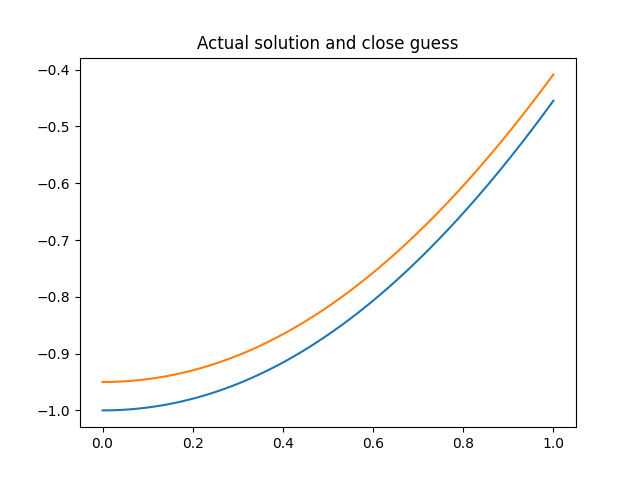
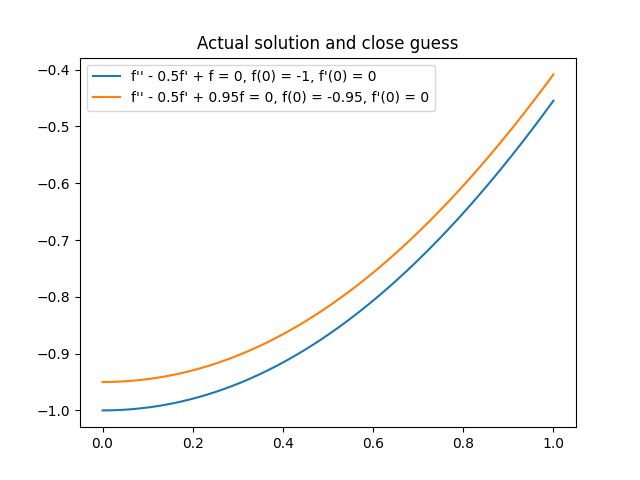
Added missing legend

Changed region(s): [[0.125, 0.125, 0.6875, 0.2188]]

diff --git a/tsne.py b/tsne.py
@@ -45,7 +45,9 @@ plt.savefig(f"pca.full.{N}.png")
 for combination, score_tuples in SCORES.items():
 	print(combination)
 	coefs, score_lists = zip(*score_tuples)
-	final_scores = [score_list[-1] for score_list in score_lists]
+	final_scores = [score_list[1] for score_list in score_lists]
+	print(final_scores[0])
+	print(np.mean(final_scores))
 	projected_coefs = pca.transform(np.array(coefs))
 	X, Y = zip(*projected_coefs)
 	plt.clf()

diff --git a/example.py b/example.py
@@ -27,4 +27,5 @@ plt.clf()
 plt.plot(T,  Y, label="f'' - 0.5f' + f = 0, f(0) = -1, f'(0) = 0")
 plt.plot(T, Ye, label="f'' - 0.5f' + 0.95f = 0, f(0) = -0.95, f'(0) = 0")
 plt.title("Actual solution and close guess")
+plt.legend()
 plt.savefig("img/close_guess.png")
